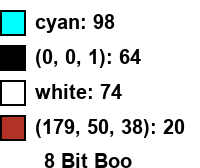
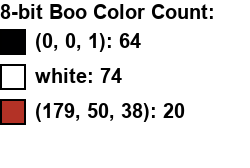
Moved title to the top of the legend

diff --git a/pixel-color-count.py b/pixel-color-count.py
@@ -46,7 +46,7 @@ def main():
     rect_width = 25
     rect_outline_width = 2
     font_size = 20
-    img_width = 200
+    img_width = 250
     img_height = len(color_count) * (rect_width + rect_outline_width + margin) + (0 if args.title is None else font_size)
     legend_img = Image.new("RGBA", (img_width, img_height))
     draw = ImageDraw.Draw(legend_img)    
@@ -56,7 +56,7 @@ def main():
     text_width = text_height = 0
     if args.title is not None:
         text_width, text_height = draw.textsize(args.title, font=font)
-        draw.text((text_width / 2, img_height - text_height), args.title, font=font, fill="black")
+        draw.text((0, 0), args.title, font=font, fill="black")
 
     for color, count in color_count.items():
         if color == ignore_color:
@@ -71,8 +71,8 @@ def main():
         print('{}.) {}: {}'.format(color_index, color_name, count))        
 
         # draw square for color legend
-        y0 = rect_width * (color_index - 1) + margin * color_index
-        y1 = rect_width * color_index + margin * color_index
+        y0 = rect_width * (color_index - 1) + margin * color_index + text_height
+        y1 = rect_width * color_index + margin * color_index + text_height
         draw.rectangle([(0, y0), (rect_width, y1)], fill=color, outline="black", width=2)
 
         # draw color name next and pixel count for legend colors
